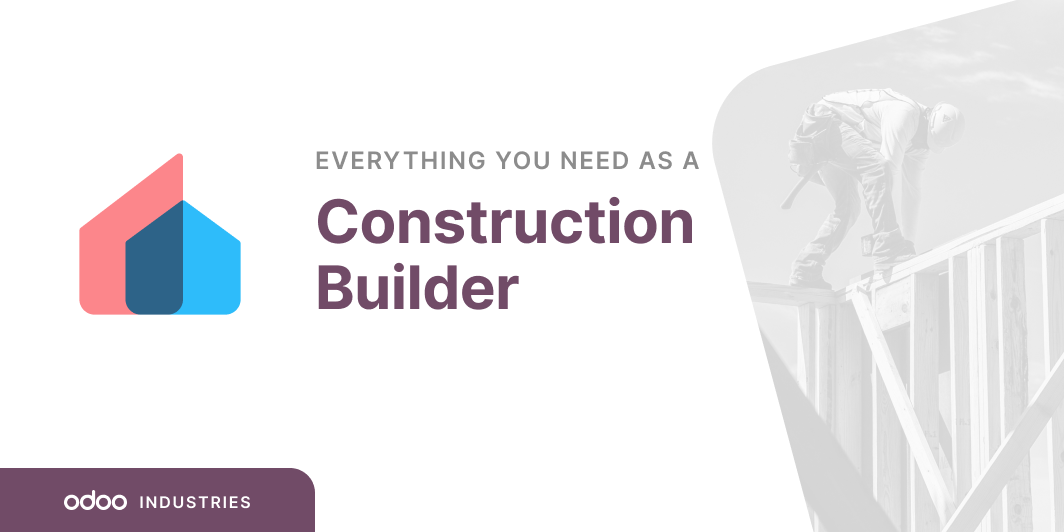
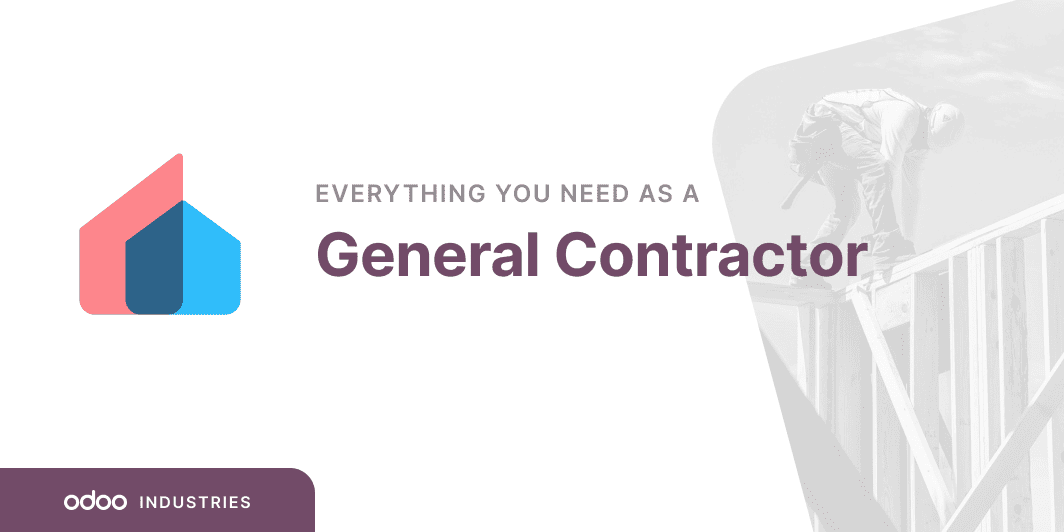
[FIX] .*: align construction(_developer) module names and images
Align the module name and image of the Construction and Construction Developer
industries with those used in the trial database.

Task-6560050

closes odoo/industry#2977

X-original-commit: 30ee438225be6ca8789ba991fb0ce8306678f52f

Changed region(s): [[0.2791, 0.2707, 0.8374, 0.6015]]

diff --git a/construction_developer/__manifest__.py b/construction_developer/__manifest__.py
@@ -1,5 +1,5 @@
 {
-    'name': 'Construction Developer',
+    'name': 'Property Developer',
     'version': '1.17',
     'category': 'Construction',
     'depends': [

diff --git a/construction/__manifest__.py b/construction/__manifest__.py
@@ -1,5 +1,5 @@
 {
-    'name': 'Construction Builder',
+    'name': 'General Contractor',
     'version': '1.6',
     'category': 'Construction',
     'depends': [
